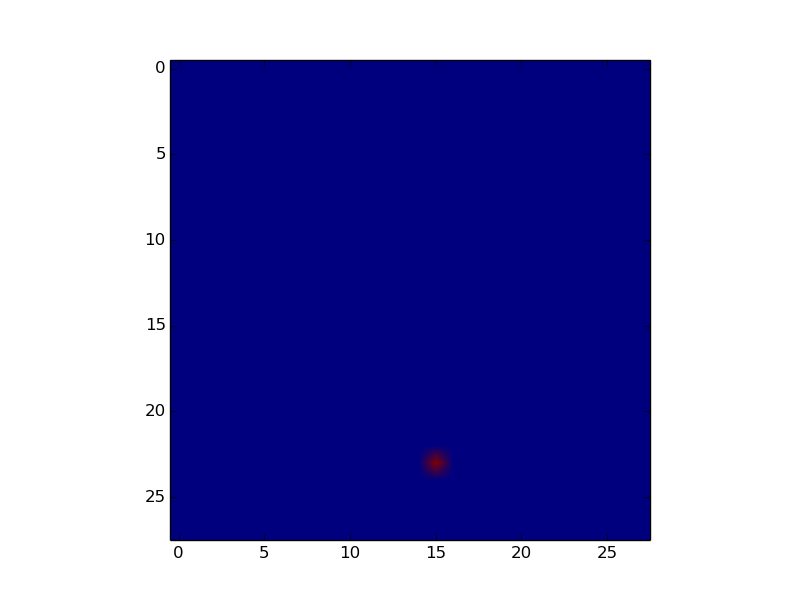
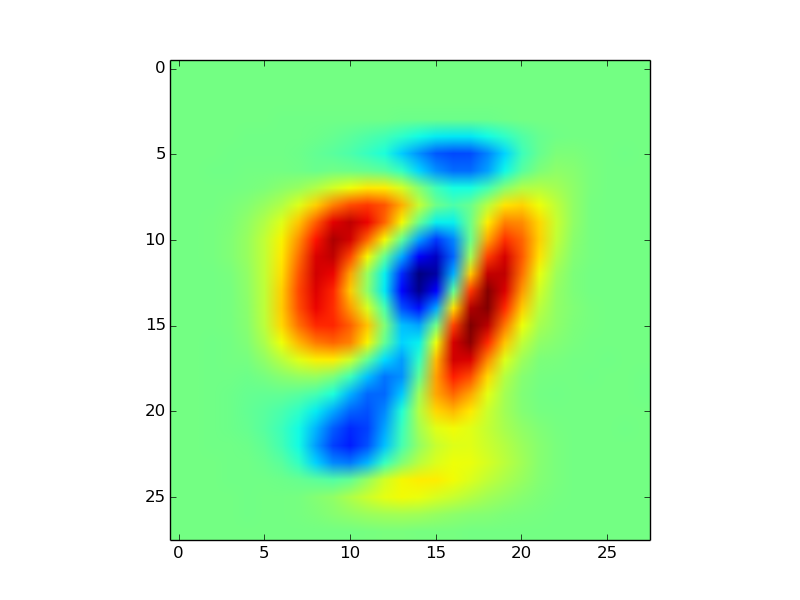
Assn4 works?

diff --git a/Assn4/prob2-test.py b/Assn4/prob2-test.py
@@ -2,7 +2,7 @@
 # @Date:   2018-05-23T15:53:41-07:00
 # @Filename: prob2.py
 # @Last modified by:   Arthur Shing
-# @Last modified time: 2018-05-24T15:02:32-07:00
+# @Last modified time: 2018-05-24T12:02:14-07:00
 import matplotlib
 matplotlib.use('Agg')
 
@@ -24,72 +24,50 @@ def loadData(fileName):
 
 def main():
     x = loadData("data-1.txt")
+    x = x.T
     print x.shape
 
-    mean = np.mean(x, axis=0)
-
+    mean = np.mean(x, axis=1)
+    centeredX = x - x.mean(axis=1)[:, np.newaxis]
     # print mean.shape
     # xa = x - mean
-    cov = np.cov(x.T)
+    cov = np.dot(centeredX, centeredX.T)
     # cov = np.cov(xa.T)
-    # print cov
+    print cov.shape
 
 
     # w = eigenvalues
     # v = eigenvectors
     w, v = np.linalg.eigh(cov)
     index = w.argsort()[::-1]
-    # print index
+    print index
     w = w[index] #sort
     v = v[:,index]
     print("Top 10 Eigen Values: ")
     print w[:10]
     # print v
-    v = v.T
+    print v[:,:10]
     # norm = np.vectorize(normalize)
     # v = norm(v)
-    # v = np.apply_along_axis(normalize, 1, v)
-    # print v[:10]
-    # print v[:10].shape
-    b = []
-    for i in v[:10]:
-        b.append(np.dot(x, i).argsort()[::-1])
-    ind = 101
-    for vector in b:
-        print vector[0]
-        # sorted_x = x[vector]
-        showimage(x[vector[0]], ind)
-        ind += 1
-    # for vector in b:
-    #     print vector[0]
-    #     sorted_x = x[vector]
-    #     showimage(sorted_x[0], ind)
-    #     ind += 1
-    sorted_x = x[b[0]]
 
-
-    # print sorted_x[0]
-    # PRINT
-    # for i in range(10):
-    #     showimage(v[i], i)
-    # showimage(mean, 15)
+    for i in range(10):
+        showimage(v[:,i], i)
+    showimage(mean, 15)
 
 def convertFloat(data):
     return data.real
 
 def normalize(data):
-    # print data
     max = np.amax(data)
-    min = np.amin(data)
     help = np.vectorize(normHelp)
-    return help(data, max, min)
+    return help(data, max)
 
 
-def normHelp(data, max, min):
-    if (float(max) - float(min)) != 0:
-        # print data, max, min
-        return (float(data) - float(min)) / (float(max) - float(min))
-    else: return 0
+def normHelp(data, max):
+    if max != complex(0.0,0.0):
+        return data/max
+    else:
+        return complex(0.0,0.0)
 
 
 
